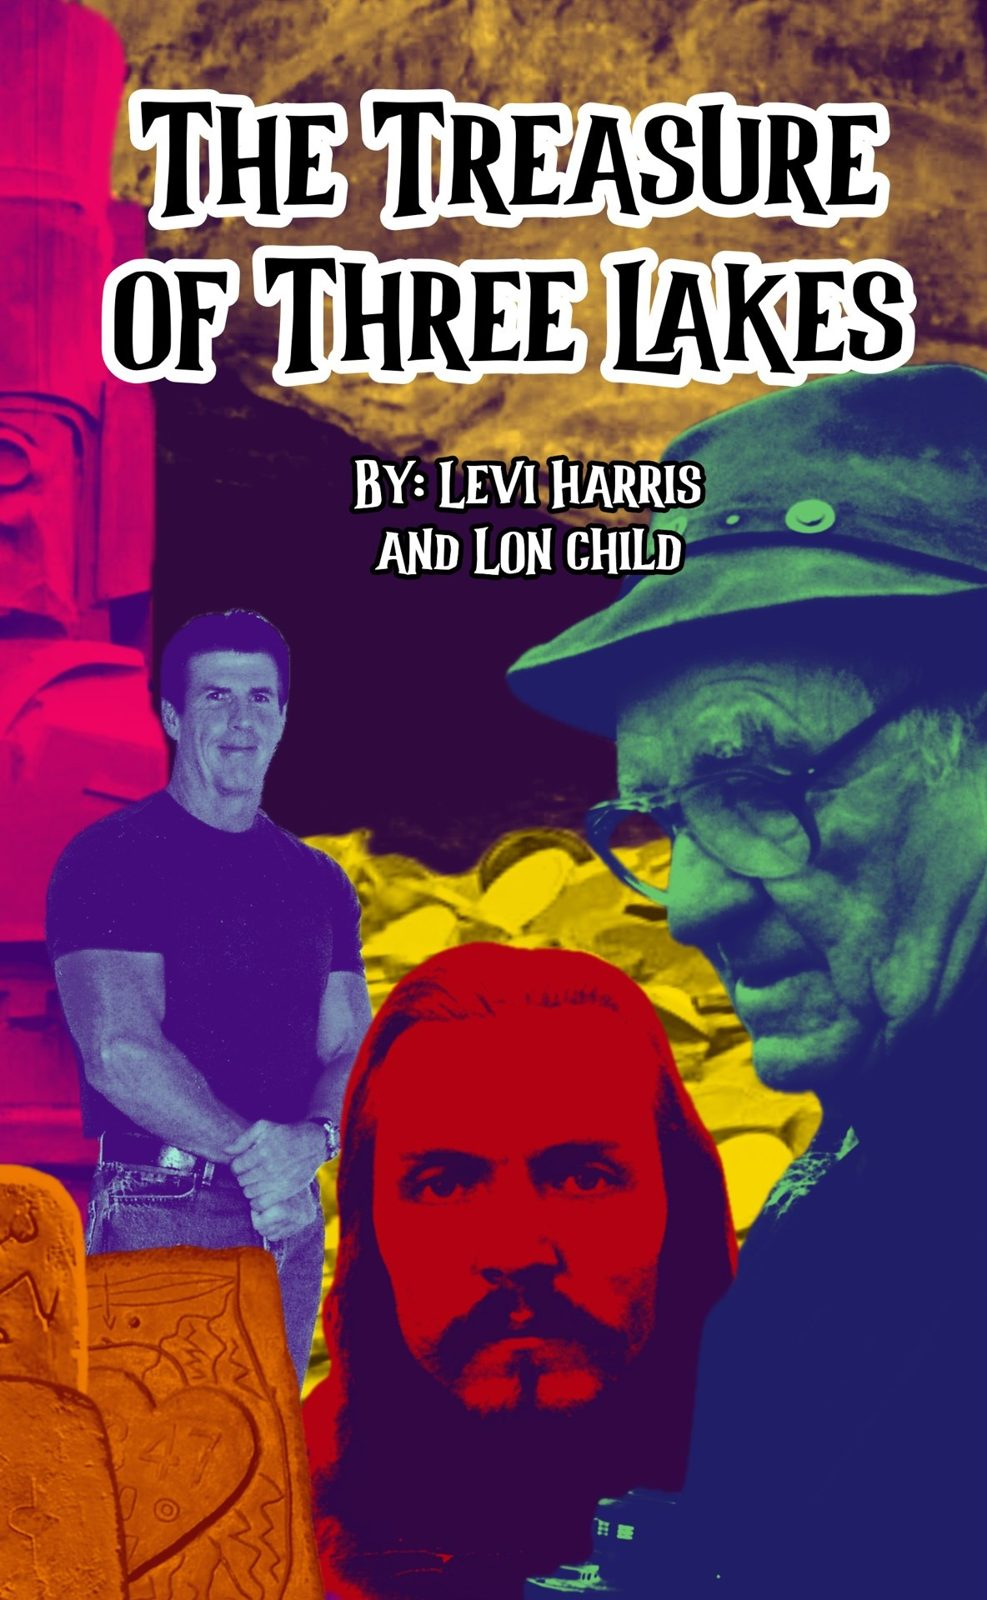
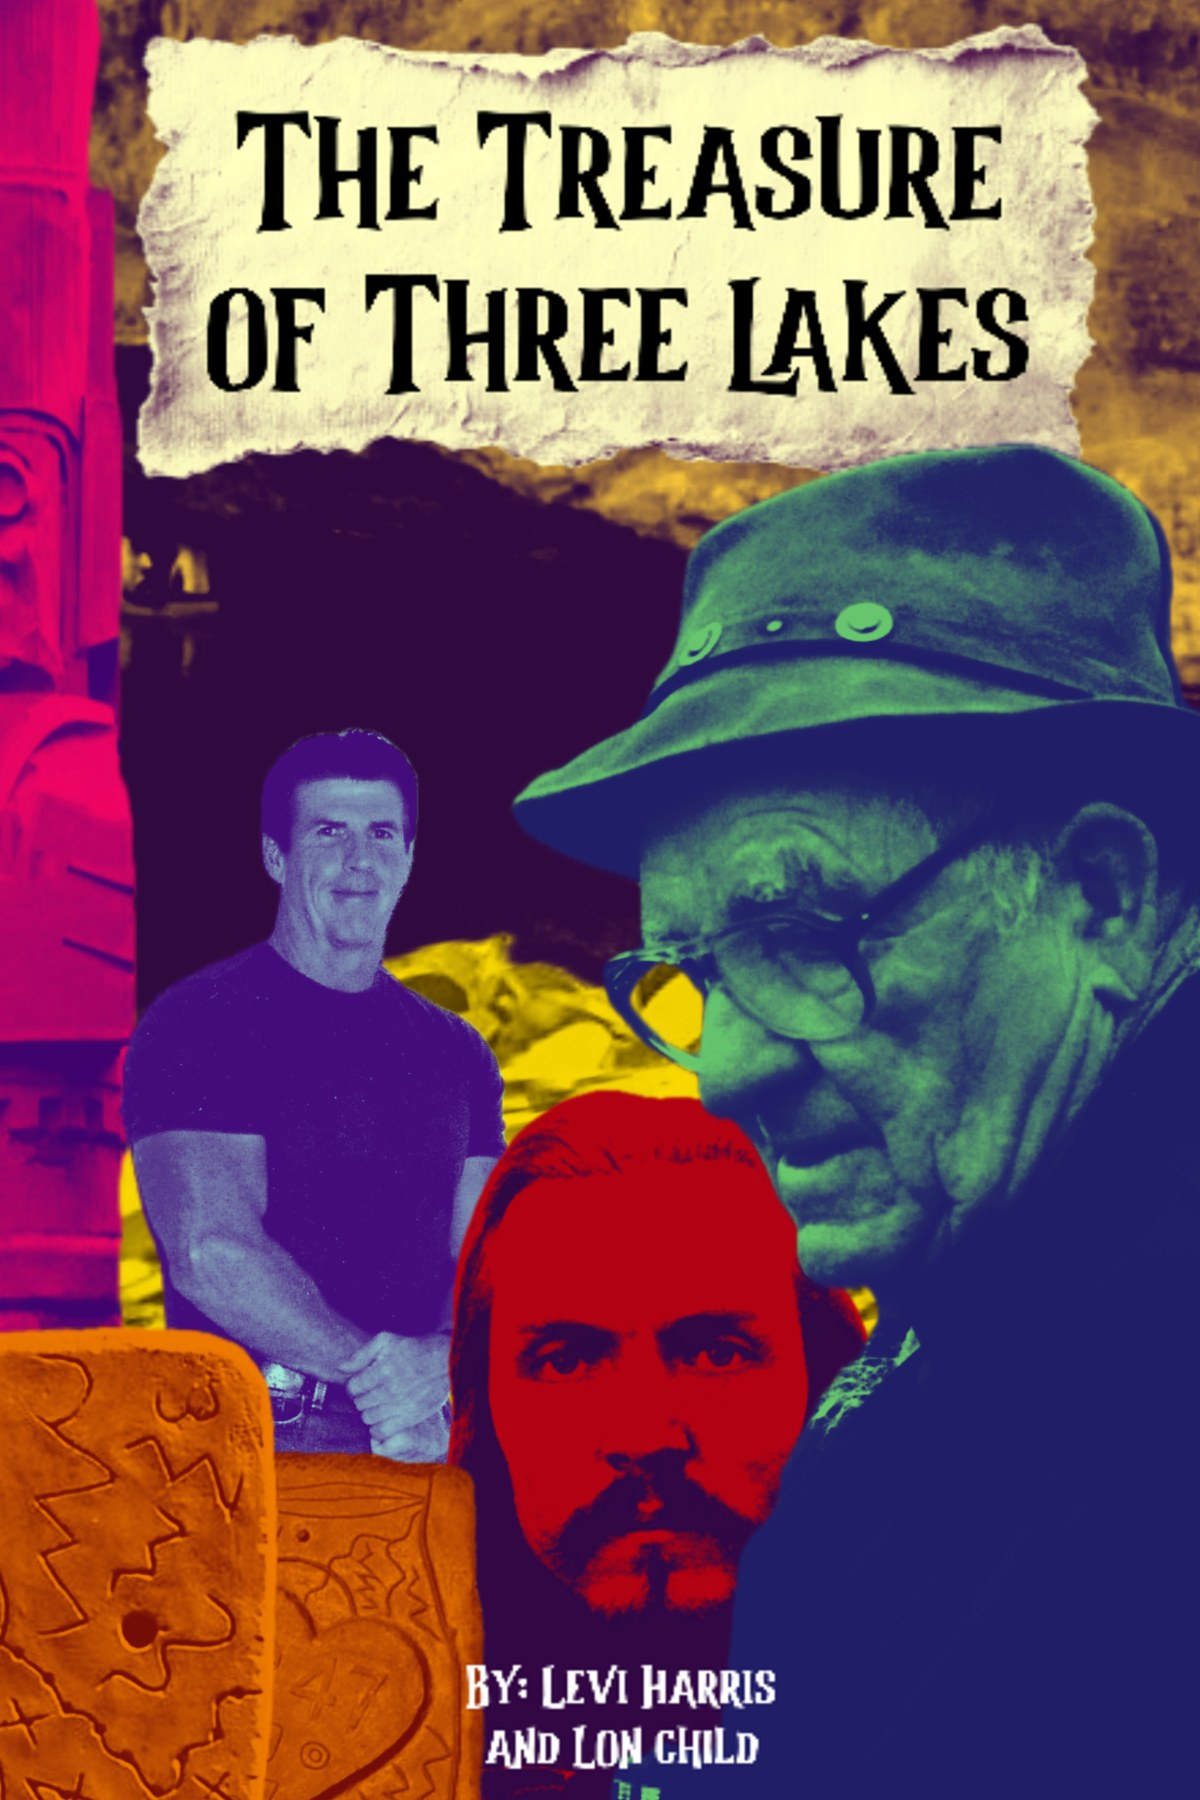
New cover and title; captions checked against the book; proceeds to Lon's mission; link under the QR

diff --git a/index.html b/index.html
@@ -3,8 +3,8 @@
 <head>
 <meta charset="utf-8">
 <meta name="viewport" content="width=device-width, initial-scale=1, viewport-fit=cover">
-<title>The Treasure of Three Lakes Ranch</title>
-<meta name="description" content="Levi Judson Harris and Lon Child on Brandt Child and the treasure of Three Lakes Ranch.">
+<title>The Treasure of Three Lakes</title>
+<meta name="description" content="Levi Judson Harris and Lon Child on Brandt Child and The Treasure of Three Lakes.">
 <link rel="preconnect" href="https://fonts.googleapis.com">
 <link rel="preconnect" href="https://fonts.gstatic.com" crossorigin>
 <link rel="stylesheet" href="https://fonts.googleapis.com/css2?family=Rye&family=Zilla+Slab:wght@600;700&family=Libre+Baskerville:ital,wght@0,400;1,400&family=Courier+Prime:wght@400;700&display=swap">
@@ -127,12 +127,28 @@ body.follower #bar { display: none; }
 .cover .gl { display: flex; flex-direction: column; gap: 10px; }
 .cover .gl .lbl { font-family: var(--type); font-weight: 700; font-size: 28px; letter-spacing: .2em; text-transform: uppercase; color: var(--gold); margin: 0; }
 .cover .gl .link { font-family: var(--book); font-style: italic; font-size: 34px; color: var(--cream); margin: 0; word-break: normal; }
+.end .words { width: 1020px; gap: 30px; }
+.end .d { font-size: 120px; }
+.end .by { font-size: 40px; }
+.end .b2 { gap: 18px; padding-top: 26px; }
+.end .b2 .lead { font-family: var(--slab); font-weight: 700; font-size: 50px; line-height: 1.1; color: var(--cream); margin: 0; }
+.end .b2 .body { font-size: 32px; line-height: 1.45; }
+.end .b2 .share { font-family: var(--slab); font-weight: 700; font-size: 40px; line-height: 1.15; color: var(--gold); margin: 6px 0 0; }
+.end .qrcol { position: absolute; right: 130px; top: 0; bottom: 0; width: 520px; display: flex; flex-direction: column; justify-content: center; align-items: center; gap: 22px; }
+.end .qrcol .lbl { font-family: var(--type); font-weight: 700; font-size: 30px; letter-spacing: .2em; text-transform: uppercase; color: var(--gold); margin: 0; }
+.end .qrcol img.qr { width: 420px; height: 420px; display: block; background: #fff; border: 14px solid #fff; box-shadow: 0 20px 44px rgba(0,0,0,.45); image-rendering: pixelated; transform: rotate(1.2deg); }
+.end .qrcol .url { font-family: var(--type); font-weight: 700; font-size: 24px; line-height: 1.35; color: var(--cream); text-align: center; word-break: normal; overflow-wrap: anywhere; text-decoration: none; max-width: 480px; }
+#turn { display: none; position: fixed; left: 16px; right: 16px; bottom: calc(24px + env(safe-area-inset-bottom, 0px)); text-align: center; font: 700 14px/1.4 var(--type); letter-spacing: .08em; color: var(--mist); }
+@media (orientation: portrait) and (max-width: 700px) { body.follower #turn { display: block; } }
+.cover .d.t1 { font-size: 112px; white-space: nowrap; }
+.cover:not(.end) .words { width: 1000px; }
 </style></head>
 <body>
-<div id="room" tabindex="0" aria-label="The Treasure of Three Lakes Ranch, slideshow">
+<div id="room" tabindex="0" aria-label="The Treasure of Three Lakes, slideshow">
   <div id="stage"></div>
   <div id="hint">Click or → to advance · ← back · F full screen</div>
   <div id="follow"><i></i><span id="followText">Connecting to the talk</span></div>
+  <div id="turn">Turn your phone sideways to see the slides larger</div>
   <div id="bar">
     <button id="prev" type="button" aria-label="Previous slide">‹ Back</button>
     <span id="count">1 / 1</span>
@@ -159,15 +175,17 @@ function build(s, i) {
   let h = '';
   switch (s.t) {
     case 'cover':
-    case 'end':
       el.className = 'slide cover';
       h = `${print('cover-front', 1, 'The book cover')}
-        <div class="words">${s.t === 'end'
-          ? `<h1 class="d">Questions?</h1><p class="by">The Treasure of Three Lakes Ranch, <b>third edition</b></p>
-             <div class="get"><img class="qr" src="img/book-qr.png" alt="QR code: the book on Lulu"><div class="gl"><p class="lbl">Get the book</p><p class="link">Paperback on lulu.com</p></div></div>
-             <div class="b2"><div class="tag">The second book</div><p class="body">${esc(s.book2)}</p></div>`
-          : `<h1 class="d">The Treasure of <span>Three Lakes</span> Ranch</h1><p class="by">by <b>Levi Judson Harris</b> &amp; <b>Lon Child</b></p>
-             <div class="get"><img class="qr" src="img/book-qr.png" alt="QR code: the book on Lulu"><div class="gl"><p class="lbl">Get the book</p><p class="link">Paperback on lulu.com</p></div></div>`}</div>`;
+        <div class="words"><h1 class="d t1">The Treasure<br>of <span>Three Lakes</span></h1><p class="by">by <b>Levi Judson Harris</b> &amp; <b>Lon Child</b></p>
+        <div class="get"><img class="qr" src="img/book-qr.png" alt="QR code: the book on Lulu"><div class="gl"><p class="lbl">Get the book</p><p class="link">Paperback on lulu.com</p></div></div></div>`;
+      break;
+    case 'end':
+      el.className = 'slide cover end';
+      h = `<div class="words"><h1 class="d">Questions?</h1><p class="by"><i>The Treasure of Three Lakes</i>, <b>third edition</b></p>
+          <div class="b2">${s.lines.map((x, j) => `<p class="${j === 0 ? 'lead' : 'body'}">${esc(x)}</p>`).join('')}<p class="share">${esc(s.share)}</p></div></div>
+        <div class="qrcol"><p class="lbl">Get the book</p><img class="qr" src="img/book-qr.png" alt="QR code: the book on Lulu">
+          <a class="url" href="${BOOK}" target="_blank" rel="noopener">${esc(BOOK.replace(/^https?:\/\/(www\.)?/, '')).replace(/\//g, '/<wbr>')}</a></div>`;
       break;
     case 'story':
       h = `${print(s.img, i, s.h, s.big)}<div class="words">${tag}<h2 class="h">${esc(s.h)}</h2>
@@ -215,8 +233,9 @@ addEventListener('resize', fit); new ResizeObserver(fit).observe(room); fit();
    ?screen   a projector computer someone else drives: follows, clips with sound (one click to start)
    (plain)   everyone else: follows along; clips play silently unless they tap for sound */
 const Q = new URLSearchParams(location.search);
-const MODE = Q.has('present') ? 'present' : Q.has('screen') ? 'screen' : 'follow';
+const MODE = Q.has('preview') ? 'preview' : (Q.has('present') || location.protocol === 'file:') ? 'present' : Q.has('screen') ? 'screen' : 'follow';
 const LIVE = `https://ntfy.sh/${LIVE_TOPIC}`;
+const DRIVES = MODE === 'present' || MODE === 'preview';
 let soundOn = MODE !== 'follow';
 
 /* ---- the documentary clips: our own copies, no ads ---- */
@@ -243,7 +262,7 @@ function unlock() {
 /* ---- live: the presenter announces; everyone else follows ---- */
 let liveTimer = null;
 function announce(msg, now) {
-  if (MODE !== 'present') return;
+  if (MODE !== 'present' || location.protocol === 'file:') return;
   clearTimeout(liveTimer);
   const send = () => fetch(LIVE, { method: 'POST', body: JSON.stringify(msg), keepalive: true }).catch(() => {});
   if (now) send(); else liveTimer = setTimeout(send, 300);
@@ -255,7 +274,7 @@ function readMsg(m) {
 }
 let lastPlay = null;
 function follow(d) {
-  if (MODE === 'present' || !d) return;
+  if (MODE === 'present' || MODE === 'preview' || !d) return;
   lastPlay = d.play ? d : null;
   if (d.s - 1 !== cur) go(d.s - 1, true);
   if (S[cur].t === 'video' && d.play) {
@@ -303,11 +322,11 @@ function go(n, quiet) {
   if (!quiet) announce({ s: cur + 1 });
 }
 function forward() {
-  if (MODE !== 'present') return;
+  if (!DRIVES) return;
   if (S[cur].t === 'video' && !clip.started) { clip.started = true; playClip(cur, 0); announce({ s: cur + 1, play: 1 }, true); return; }
   go(cur + 1);
 }
-function back() { if (MODE === 'present') go(cur - 1); }
+function back() { if (DRIVES) go(cur - 1); }
 
 function full() {
   try {
@@ -316,20 +335,20 @@ function full() {
   } catch (e) {}
 }
 room.addEventListener('click', e => {
-  if (e.target.closest('#bar') || e.target.closest('.snd')) return;
+  if (e.target.closest('#bar') || e.target.closest('.snd') || e.target.closest('a')) return;
   room.focus({ preventScroll: true });
   const r = room.getBoundingClientRect();
   if (e.clientX - r.left < r.width * 0.2) back(); else forward();
 });
 document.getElementById('prev').addEventListener('click', back);
-document.getElementById('next').addEventListener('click', () => { if (MODE === 'present') go(cur + 1); });
+document.getElementById('next').addEventListener('click', () => { if (DRIVES) go(cur + 1); });
 document.getElementById('full').addEventListener('click', full);
 addEventListener('keydown', e => {
   const k = e.key;
   if (['ArrowRight', 'PageDown', ' ', 'Enter', 'ArrowDown'].includes(k)) { e.preventDefault(); forward(); }
   else if (['ArrowLeft', 'PageUp', 'ArrowUp'].includes(k)) { e.preventDefault(); back(); }
-  else if (k === 'Home' && MODE === 'present') go(0);
-  else if (k === 'End' && MODE === 'present') go(S.length - 1);
+  else if (k === 'Home' && DRIVES) go(0);
+  else if (k === 'End' && DRIVES) go(S.length - 1);
   else if (k === 'f' || k === 'F') full();
 });
 let t; const wake = () => { room.classList.add('awake'); clearTimeout(t); t = setTimeout(() => room.classList.remove('awake'), 1800); };
@@ -341,7 +360,7 @@ room.addEventListener('touchend', e => { if (sx === null) return; const dx = e.c
 
 /* ---- start ---- */
 const hint = document.getElementById('hint');
-if (MODE === 'present') hint.textContent = 'Presenting: everyone on the link follows you · click or → to advance · F full screen';
+if (DRIVES) hint.textContent = MODE === 'preview' ? 'Preview: nobody follows this page' : 'Presenting: everyone on the link follows you · click or → to advance · F full screen';
 else { document.body.classList.add('follower'); hint.textContent = MODE === 'screen' ? 'Screen: following the presenter' : 'Following the talk live'; }
 setTimeout(() => hint.classList.add('gone'), 5000);
 
@@ -357,7 +376,7 @@ else if (MODE === 'screen') {
   document.body.appendChild(gate);
   gate.addEventListener('click', () => { unlock(); full(); gate.remove(); catchUp(); }, { once: true });
   listen();
-} else {
+} else if (MODE === 'follow') {
   listen();
 }
 </script>

diff --git a/slides.js b/slides.js
@@ -1,4 +1,4 @@
-/* The Treasure of Three Lakes Ranch: one list of slides, read by the slideshow (index.html)
+/* The Treasure of Three Lakes: one list of slides, read by the slideshow (index.html)
    and by Lon's live page (lon.html), so the two always match. */
 
 /* The live channel the slideshow announces its slide on (ntfy.sh, free, no account). */
@@ -20,7 +20,7 @@ const S = [
 
 { t:'story', img:'i20', h:'The treasure bug', body:['It started with a tape. A friend gave Brandt a recording of Kanab’s treasure legend, and he was hooked.'] },
 
-{ t:'story', img:'i13', h:'The bottomless lake', body:['The legend pointed him to a lake that Kanab’s old-timers swore had no bottom. Brandt’s rope hit bottom at 35 feet, the exact depth a magazine said the Aztecs used to hide gold.'] },
+{ t:'story', img:'i13', h:'The bottomless lake', body:['A magazine claimed the Aztecs hid their gold in lakes 35 feet deep. Kanab’s old-timers swore Three Lakes had no bottom, but Brandt’s rope hit bottom at exactly 35 feet.'] },
 
 { t:'story', img:'i25', h:'The lost propeller', body:['So his lawyer, Tony Thurber, dove in. He came up with the boat propeller Brandt had lost, and news of a carving on the cliff underwater.'] },
 
@@ -36,7 +36,7 @@ const S = [
 
 { t:'story', img:'snail', h:'The golden snail', body:['Before the first blast, the government found an endangered snail in his pond, valued at $50,000 a snail. Brandt sued the United States Government and fought for four years.'] },
 
-{ t:'story', img:'i55', h:'The ducks and geese', body:['In the middle of that fight, someone left twelve pet ducks and geese on the lake, and ducks eat snails. When officials came to shoot them, Brandt called the newspaper.'] },
+{ t:'story', img:'i55', h:'The ducks and geese', body:['In the middle of that fight, someone left twelve pet ducks and geese on the lake, and ducks eat snails. When officials were sent to shoot them, Brandt called the newspaper.'] },
 
 { t:'story', img:'i22', h:'The Dynamite Period', body:['Then came the dynamite. For two months Brandt and his son Robert blasted the cliff, and the rock soaked it up like rubber. Their biggest blast, 45 sticks, nearly ran the county recorder off the highway.'] },
 
@@ -46,17 +46,17 @@ const S = [
 
 { t:'story', img:'i1', h:'The man on the knoll', body:['A technician scanning for metal saw a man in full Indian dress, holding a spear, on the knoll. Then he was gone. Over the cavern, the needle jumped to 100.'] },
 
-{ t:'story', img:'i2', h:'The well driller', body:['A well driller broke into the main cavern 80 feet down and pulled up gold nuggets on his bit. That night he died of a heart attack. Three weeks later, so did his wife.'] },
+{ t:'story', img:'i2', h:'The well driller', body:['A well driller hit the main cavern 80 feet down and pulled up gold nuggets on his bit. The next day his drill broke off in the hole, and that night he died of a heart attack. Three weeks later, his wife died too.'] },
 
 { t:'story', img:'tooth', h:'The hardest rock', body:['Dad offered Lon ten acres to bring his D8 CAT down and dig. The sandstone was so hard it wore out a $150 penetrating tooth every three days.'] },
 
-{ t:'story', img:'d8', h:'Sand in December', body:['One Monday the D8’s engine died. The mechanic found sand all through it, while snow covered the ground.'] },
+{ t:'story', img:'d8', h:'Sand in December', body:['One Monday in December, the D8’s engine died. The mechanic found sand all through it, with snow covering the ground.'] },
 
 { t:'story', img:'i50', h:'Wilf Blum', body:['A professional treasure diver named Wilf Blum dove the pond in December. That night the bedroom filled with propane, and Mel woke Lon just in time.'] },
 
-{ t:'story', img:'i26', h:'The vomiting man', body:['A radar technician dragging his unit over the cavern collapsed, vomiting. His heart stopped, he fell into a coma, and the doctors never found a cause.'] },
+{ t:'story', img:'i26', h:'The vomiting man', body:['As his radar crossed the edge of the cavern, the technician collapsed, vomiting. His heart stopped, he fell into a coma, and the doctors never found a cause.'] },
 
-{ t:'story', img:'i48', h:'Lightning', body:['A businessman’s drill bit jammed thirty feet down. That night, lightning killed a draft horse, blew out a water pipe, and buried the hole in sand.'] },
+{ t:'story', img:'i48', h:'Lightning', body:['A businessman’s drill bit jammed thirty feet down. That night a storm hit: lightning killed a draft horse and blew out a water pipe, and the rain buried the hole in sand.'] },
 
 { t:'story', img:'i37a', h:'The Rangertell', body:['Steve Schaffer’s friend stood over the cavern with a handheld detector and read gold, silver, diamonds, rubies and emeralds. A few weeks later he died in a motorcycle accident.'] },
 
@@ -75,10 +75,12 @@ const S = [
 
 { t:'gallery', h:'Treasure hunters', sub:'Brandt Child, and Lon Child. Like his father before him.', imgs:['i19','i58'] },
 
-{ t:'plan', img:'i13', h:'Our plan to get Three Lakes back', sub:'Lon’s adventure ranch resort. We’re looking for investors and partners.',
+{ t:'plan', img:'i13', h:'Our plan to get Three Lakes back', sub:'Lon’s adventure ranch resort. Proceeds from the book go to Lon’s mission.',
   list:['Zip-lines and a ropes course','A via ferrata climbing route','Ice climbing on the winter ice walls','Disc golf','A lodge and cabins','Montezuma treasure tours'] },
 
-{ t:'end', cue:'The book · Questions', book2:'Everyone who buys this book goes on the list to hear first about the second: the last ten years, with much more historical research and stories from others who knew Brandt and Lon.' },
+{ t:'end', cue:'The book · Questions',
+  lines:['Proceeds go to Lon’s mission.','Everyone who buys the book gets Lon’s updates, including the second book: the last ten years, with much more historical research and stories from others who knew Brandt and Lon.'],
+  share:'Share it far and wide, anywhere and everywhere.' },
 ];
 
 const cueTitle = s => s.cue || s.h || '';
